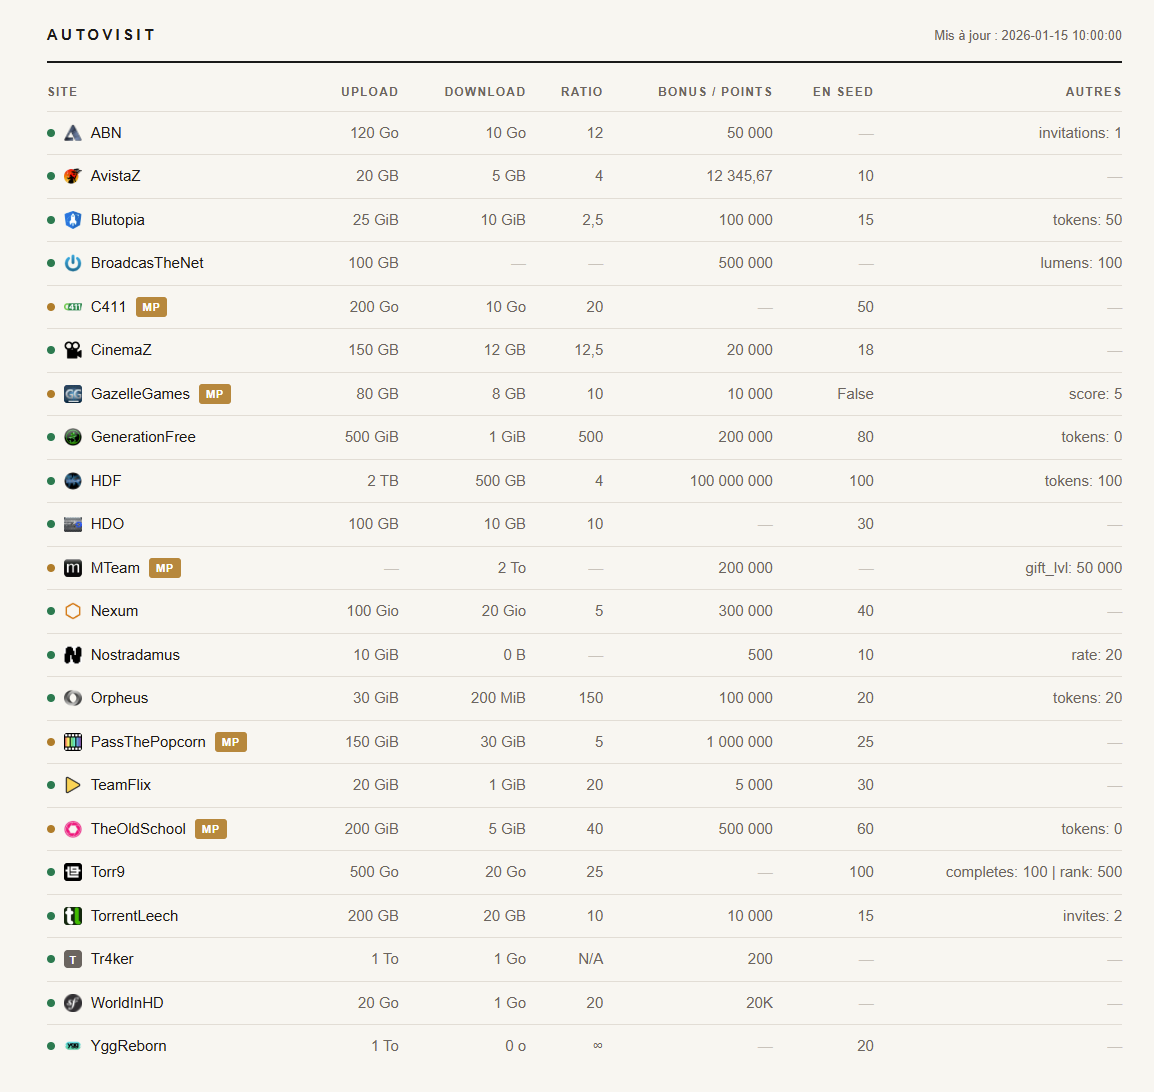
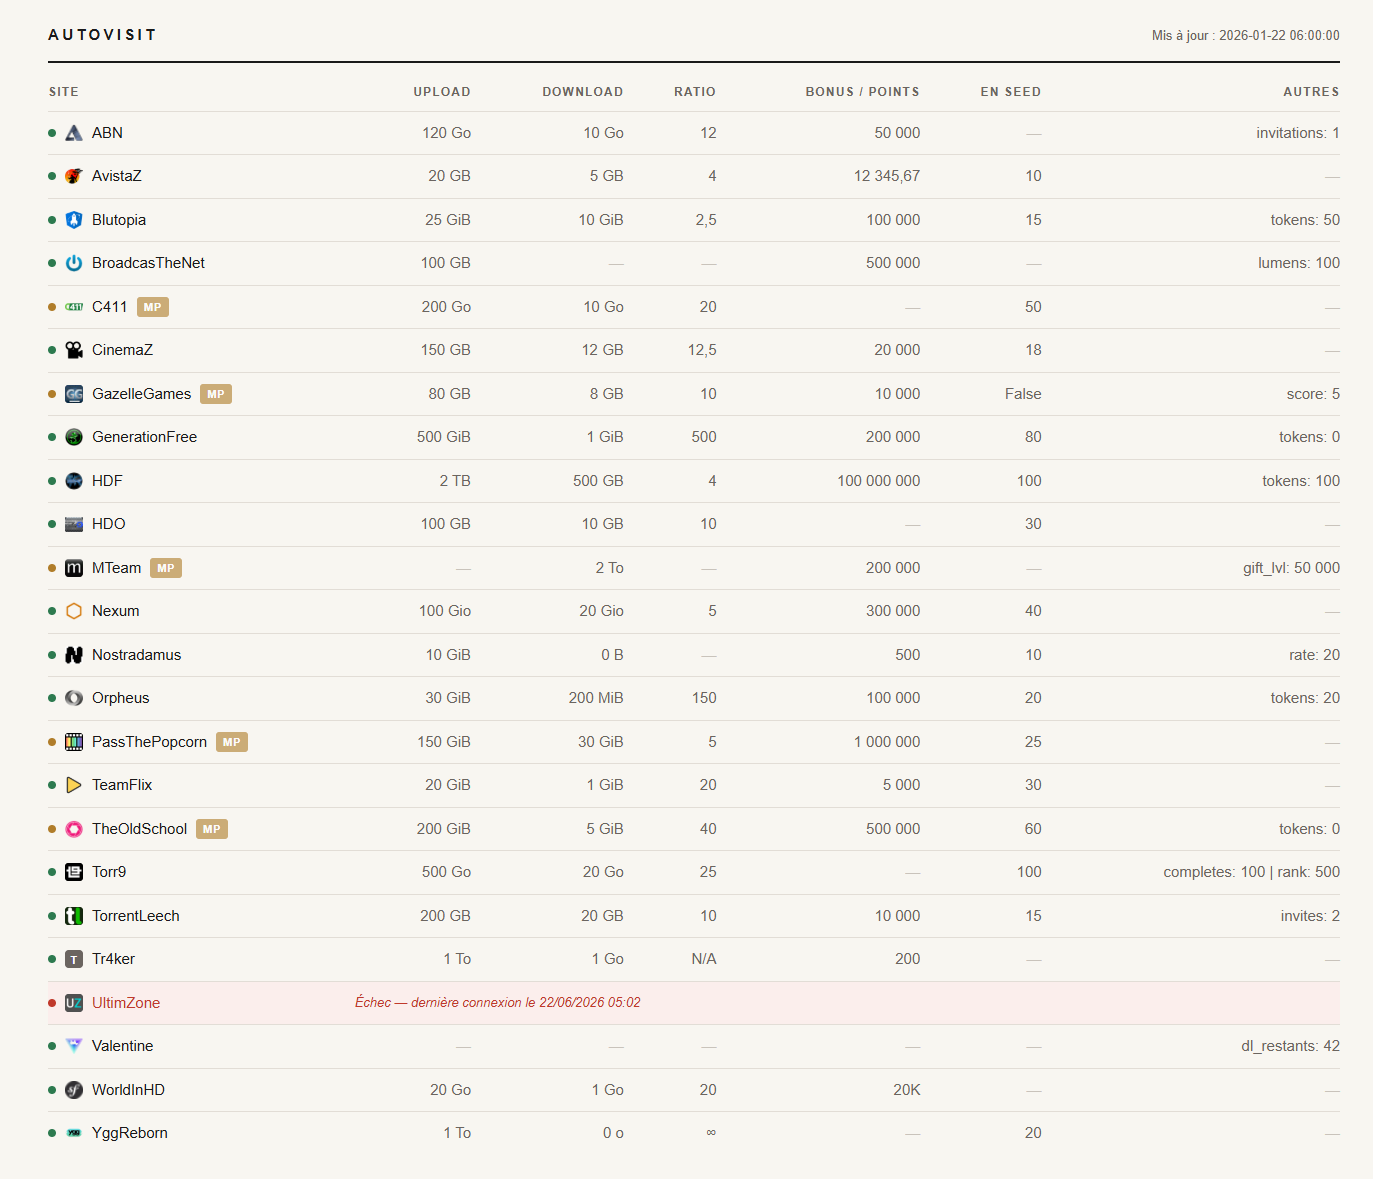
Captures d'écran : MAJ captures

diff --git a/README.md b/README.md
@@ -20,7 +20,11 @@ Fork divergent de [Gusdezup/Autovisit](https://github.com/Gusdezup/Autovisit).
 
 ## Aperçu
 
+### Apperçu PC
 ![Page web autovisit](docs/img/web-preview.png)
+
+### Apperçu adaptatif
+![Page web autovisit](docs/img/web-preview_adaptatif.png)
 
 ---
 